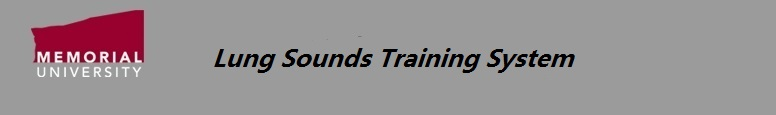
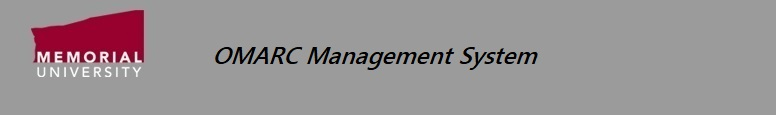
0528
-Change "Lung Sounds Training System" to "OMARC Management System".
-When creating a case study, it should have two button options, one
should be "Upload New Sounds for this Case Study"
the other option should be "Add Visits using Existing Sounds"
-"visit" labels should be uppercase when the word Visit is the first on
the phrase or camel-casing is being used.

Changed region(s): [[0.2784, 0.3913, 0.7423, 0.6522]]

diff --git a/Case_Study_add.php b/Case_Study_add.php
@@ -60,7 +60,7 @@ form.submit();
       </tr>
       <tr>
         <td  align="center">&nbsp;</td>
-        <td><input name="Submit" type="submit" title="In next stages, the sounds and visits may be added to this Case Study!" class="btn btn-success" value="Next Stage" onClick="return check(form1)">&nbsp;
+        <td><input name="Submit" type="submit" title="In next stages, the sounds and visits may be added to this Case Study!" class="btn btn-success" value="Add Case Study" onClick="return check(form1)">&nbsp;
 			<input name="Submit2" title="Give up to create a new Case Study!" type="button" class="btn btn-danger" value="Cancel" onClick="history.back();"></td>
       </tr>
     </table>

diff --git a/upload_Sounds_mu.php b/upload_Sounds_mu.php
@@ -101,7 +101,7 @@ $("#upload").click(function(e) {
 </td>
 </table>  
     <tr align="center" height="22" class="word_orange">
-            <td height="22" class="word_orange" >If your sounds are already uploaded, please add visits directly!
+            <td height="22" class="word_orange" >If your sounds are already uploaded, please add visits!
             &nbsp;&nbsp;&nbsp;&nbsp;&nbsp;&nbsp;&nbsp;
 		<input type="button"  align="right" class="btn btn-primary" value="Add visits" onClick="window.location.href='add_se.php'" />
 		<input name="Submit2" type="button" class="btn btn-danger" value="Back to Index" onClick="window.location.href='index.php'"/> 

diff --git a/Modify_sc_bind_change.php b/Modify_sc_bind_change.php
@@ -125,7 +125,7 @@ $info_sc=mysql_fetch_array($sql);
 </script>
 
 <div class="container" align="center" width="75%" >
-   <h4 align="center">Add Visit</h4>
+   <h4 align="center">Modify Visit</h4>
    <div align="center" class="row" >
 
       <div align="center" width="75%" >
